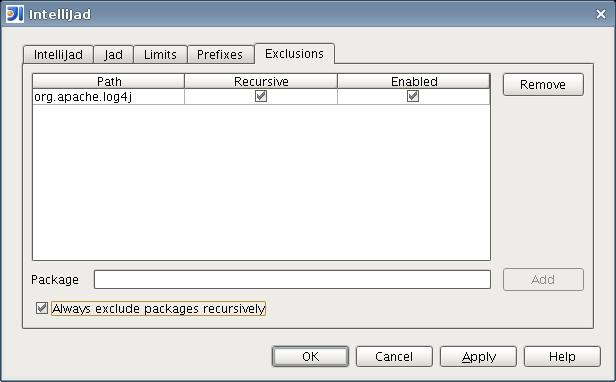
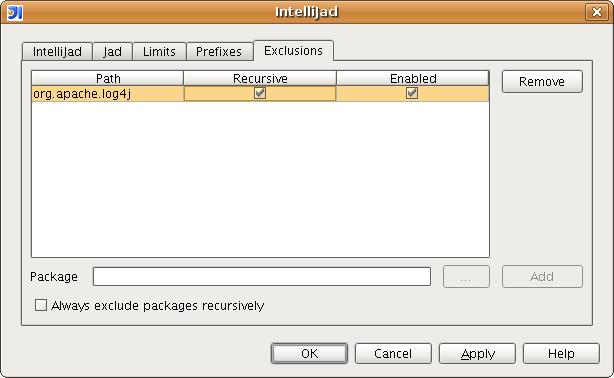
- All areas of IntelliJad now documented

Changed region(s): [[0.0, 0.0, 1.0, 1.0], [0.8664, 0.7275, 0.8974, 0.7566]]

diff --git a/src/help/help-content/config-intellijad.html b/src/help/help-content/config-intellijad.html
@@ -60,5 +60,20 @@
     option, the decompilation location will be automatically created on the first decompilation
     if it doesn't already exist. You may also mark decompiled files as read-only.
 </div>
+<div style="margin-bottom:5px; margin-top:5px;">
+    <div class="sectionheader">Project-specific settings</div>
+    In order to override the general IntelliJad Project settings defined in the IDE configuration, open the
+    IntelliJad configuration from the Project area of IntelliJ's settings view.
+</div>
+<div style="margin-bottom:5px; margin-top:5px;">
+    <center>
+        <img src="images/config-project-specific.jpg" alt="Project-level IntelliJad options"/>
+    </center>
+</div>
+<div style="margin-bottom:5px; margin-top:5px;">
+    By selecting the "Use project-specific IntelliJad settings" in this dialog, you will enable
+    project-specific settings for decompilation.  The meanings of all other settings stay the same
+    as described by this help.
+</div>
 </body>
 </html>

diff --git a/src/help/help-content/config-exclusions.html b/src/help/help-content/config-exclusions.html
@@ -27,8 +27,12 @@
     <div style="margin-bottom:5px; margin-top:5px;">
         Packages can be excluded in two ways:
         <ul>
-            <li>By entering the name of the package into the exclusion table.</li>
-            <li>In the decompilation dialog's Advanced tab, you can choose to exclude the package
+            <li>By entering the name of the package into the exclusion table, or using the package navigator via the
+                "..." button.  Note that at present, the package navigator is only available in the project-configuration
+                dialogue.
+            </li>
+            <li>
+                In the decompilation dialog's Advanced tab, you can choose to exclude the package
                 of the current class.  Recursive exclusion for the package may also be defined here.
                 If a package is excluded using this method, you can later edit the settings using
                 the exclusion table.

diff --git a/src/help/help-content/configuring-intellijad.html b/src/help/help-content/configuring-intellijad.html
@@ -7,5 +7,20 @@
 </head>
 <body>
 <div class="mainheader">Configuring IntelliJad</div>
+<div style="margin-bottom:5px; margin-top:5px;">
+    There are two levels of configuration in IntelliJad - IDE-level, and project-level.  Both
+    are accessible via the settings panel, in the relevant sections.
+</div>
+<div style="margin-bottom:5px; margin-top:5px;">
+    <div class="sectionheader">IDE-level configuration</div>
+    The IDE-level configuration persists across multiple projects, and is the most useful place
+    to set up IntelliJad.  In here, you can for instance define automatic decompilation to memory
+    and then never have to change the settings to have this type of decompilation occur
+    in all your projects.
+</div>
+<div style="margin-bottom:5px; margin-top:5px;">
+    <div class="sectionheader">Project-level configuration</div>
+    Project-level decompilation applies only to the current project.
+</div>
 </body>
 </html>

diff --git a/src/help/help-content/config-limits.html b/src/help/help-content/config-limits.html
@@ -8,5 +8,18 @@
 
 <body>
 <div class="mainheader">Limits</div>
+<div style="margin-bottom:5px; margin-top:5px;">
+    The limits dialog allows you to define constaints on the way IntelliJad handles the decompilation, for example
+    the number of field declarations of one type that should be declared together.
+</div>
+<div style="margin-bottom:5px; margin-top:5px;">
+    <b>NB</b> the indentation value may later be automatically superceded if you choose to have IntelliJad reformat
+    the decompiled code according to the preferred style.
+</div>
+<div style="margin-bottom:5px; margin-top:5px;">
+    <center>
+        <img src="images/config-limits.jpg" alt="Limit options"/>
+    </center>
+</div>
 </body>
 </html>

diff --git a/src/help/help-content/memory-vfs-manager.html b/src/help/help-content/memory-vfs-manager.html
@@ -13,7 +13,9 @@
     Tools/IntelliJad menu.
 </div>
 <div style="margin-bottom:5px; margin-top:5px;">
-    <img src="images/mvfs-manager.jpg" alt="The IntelliJad memory virtual file system manager"/>
+    <center>
+        <img src="images/mvfs-manager.jpg" alt="The IntelliJad memory virtual file system manager"/>
+    </center>
 </div>
 <div style="margin-bottom:5px; margin-top:5px;">
     Files can be viewed by expanding the tree, and selected by using the checkbox in each tree node.  The checkbox

diff --git a/src/help/help-content/config-prefixes.html b/src/help/help-content/config-prefixes.html
@@ -8,5 +8,14 @@
 
 <body>
 <div class="mainheader">Prefixes</div>
+<div style="margin-bottom:5px; margin-top:5px;">
+    The prefix dialog allows you to define naming conventions for elements of the decompiled class -
+    method names, field names, etc.
+</div>
+<div style="margin-bottom:5px; margin-top:5px;">
+    <center>
+        <img src="images/config-prefixes.jpg" alt="Prefix options"/>
+    </center>
+</div>
 </body>
 </html>

diff --git a/src/help/help-content/config-jad.html b/src/help/help-content/config-jad.html
@@ -19,5 +19,8 @@
     Note that some options, such as redirect decompilation output to standard output, are
     not available due to the way IntelliJad manipulates these features.
 </div>
+<div style="margin-bottom:5px; margin-top:5px;">
+    The options available here are (hopefully - please tell me if they're not!) self-explanatory.
+</div>
 </body>
 </html>

diff --git a/src/java/net/stevechaloner/intellijad/gui/tree/IconicCheckBox.java b/src/java/net/stevechaloner/intellijad/gui/tree/IconicCheckBox.java
@@ -1,3 +1,18 @@
+/*
+ * Copyright 2007 Steve Chaloner
+ *
+ * Licensed under the Apache License, Version 2.0 (the "License"); you may not
+ * use this file except in compliance with the License. You may obtain a copy
+ * of the License at
+ *
+ * http://www.apache.org/licenses/LICENSE-2.0
+ *
+ * Unless required by applicable law or agreed to in writing, software distributed
+ * under the License is distributed on an "AS IS" BASIS, WITHOUT WARRANTIES OR
+ * CONDITIONS OF ANY KIND, either express or implied. See the License for the
+ * specific language governing permissions and limitations under the License.
+ */
+
 package net.stevechaloner.intellijad.gui.tree;
 
 import javax.swing.JCheckBox;
@@ -7,8 +22,8 @@ import javax.swing.JPanel;
 /**
  * A component that renders, in order, a checkbox, an icon and some text.
  */
-public class IconicCheckBox {
-
+public class IconicCheckBox
+{
     /**
      * The checkbox.
      */

diff --git a/src/java/net/stevechaloner/intellijad/gui/tree/CheckBoxTreeNodeRenderer.java b/src/java/net/stevechaloner/intellijad/gui/tree/CheckBoxTreeNodeRenderer.java
@@ -18,6 +18,7 @@ package net.stevechaloner.intellijad.gui.tree;
 import javax.swing.JCheckBox;
 import javax.swing.JComponent;
 import javax.swing.JLabel;
+import javax.swing.JPanel;
 import javax.swing.JTree;
 import javax.swing.UIManager;
 import javax.swing.tree.DefaultMutableTreeNode;
@@ -63,7 +64,11 @@ class CheckBoxTreeNodeRenderer implements TreeCellRenderer
         prepare(checkBox,
                 selected);
 
-        return cb.getContentPane();
+        JPanel contentPane = cb.getContentPane();
+        prepare(contentPane,
+                selected);
+
+        return contentPane;
     }
 
     /**
